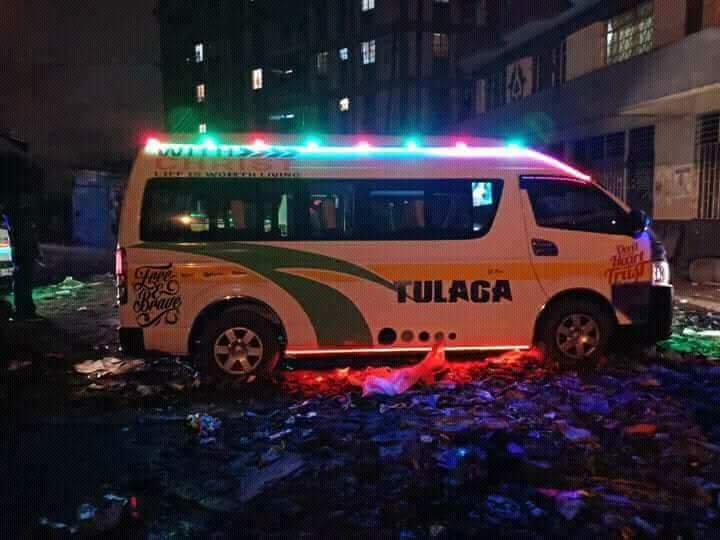
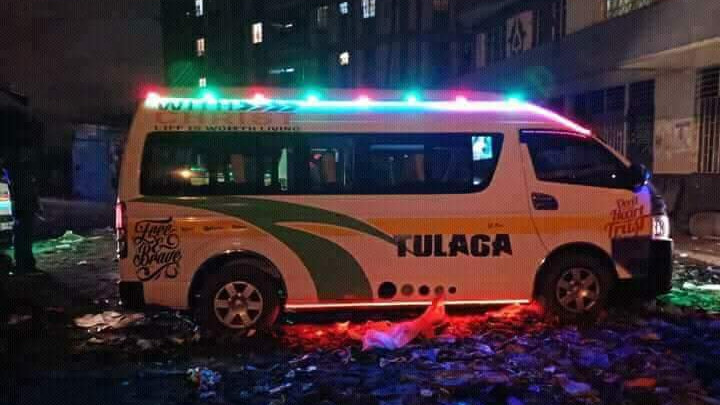
resize images to the same aspect ratio add initialize.py to start the mysql service and create db if not exist

diff --git a/initialize.py b/initialize.py
@@ -1,0 +1,93 @@
+#!/usr/bin/env python3
+
+import MySQLdb as mysql
+import subprocess
+import platform
+import sys
+
+
+# TODO end program if mysql.service does not exist
+class DBops:
+
+    # create database ticketing in mysql.db
+    def createdatabase(self, conn):
+        print("Creating database......")
+        query = 'CREATE DATABASE IF NOT EXISTS ticketing'
+        cursor = conn.cursor()
+        cursor.execute(query)
+        new_conn = mysql.connect('localhost', 'root', '', 'ticketing')
+        print("Database created successfully....\n")
+        return new_conn
+
+    # function to run migrations to the database
+    def runmigrations(self):
+        print("Running migrations....")
+        subprocess.call(['python', 'manage.py', 'migrate'])
+        print("Migrations complete...\n")
+
+    # Check and start mysql.service in linux based operating sys
+    def startmysqlservicedeb(self):
+        print("Starting mysql.service in linux......")
+        output = subprocess.getoutput('service mysql start')
+        if output == "" or len(output) == 0:
+            print("Mysql service started correctly....\n")
+        else:
+            print(output)
+            sys.exit(0)
+
+    # Check if exists and start mysql.service in windows
+    def startmysqlservicewin(self):
+        pass
+
+    # Format the excp
+    def formatexception(self, e):
+        # init a variable type(list)
+        if e == '':
+            pass
+        w = []
+        w.append(e)
+        fin = str(w[0])
+        # split the result array into individual chars
+        ls = list(fin)
+        # init a control variable for the loop
+        bl = False
+        finalstr = '('
+        for x in ls:
+            if x == ',':
+                bl = True
+                continue
+            if bl:
+                finalstr += x
+
+        return finalstr
+
+
+class App(DBops):
+
+    def __init__(self):
+
+        # Handling sql.service does not exist
+        try:
+            mysql.connect('localhost', 'root', '')
+
+        except mysql.Error as e:
+            print('An Error occured .....', end = '')
+            print(DBops().formatexception(e), '\n')
+            if platform.system() == 'Linux':
+                DBops().startmysqlservicedeb()
+
+            elif platform.system() == 'Windows':
+                DBops().startmysqlservicewin()
+
+        # Handling database ticketing does not exist
+        try:
+            self.conn = mysql.connect('localhost', 'root', '', 'ticketing')
+
+        except mysql.Error as e:
+            print('An Error occured  .....', end = '')
+            print(DBops().formatexception(e), '\n')
+            self.conn = mysql.connect('localhost', 'root', '')
+            DBops().createdatabase(self.conn)
+
+            # run migration after creating the database
+            DBops().runmigrations()

diff --git a/manage.py b/manage.py
@@ -1,8 +1,11 @@
 #!/usr/bin/env python3
 import os
 import sys
+import initialize
+
 
 if __name__ == '__main__':
+    initialize.App()
     os.environ.setdefault('DJANGO_SETTINGS_MODULE', 'Ticketing.settings')
     try:
         from django.core.management import execute_from_command_line
@@ -13,3 +16,4 @@ if __name__ == '__main__':
             "forget to activate a virtual environment?"
         ) from exc
     execute_from_command_line(sys.argv)
+
